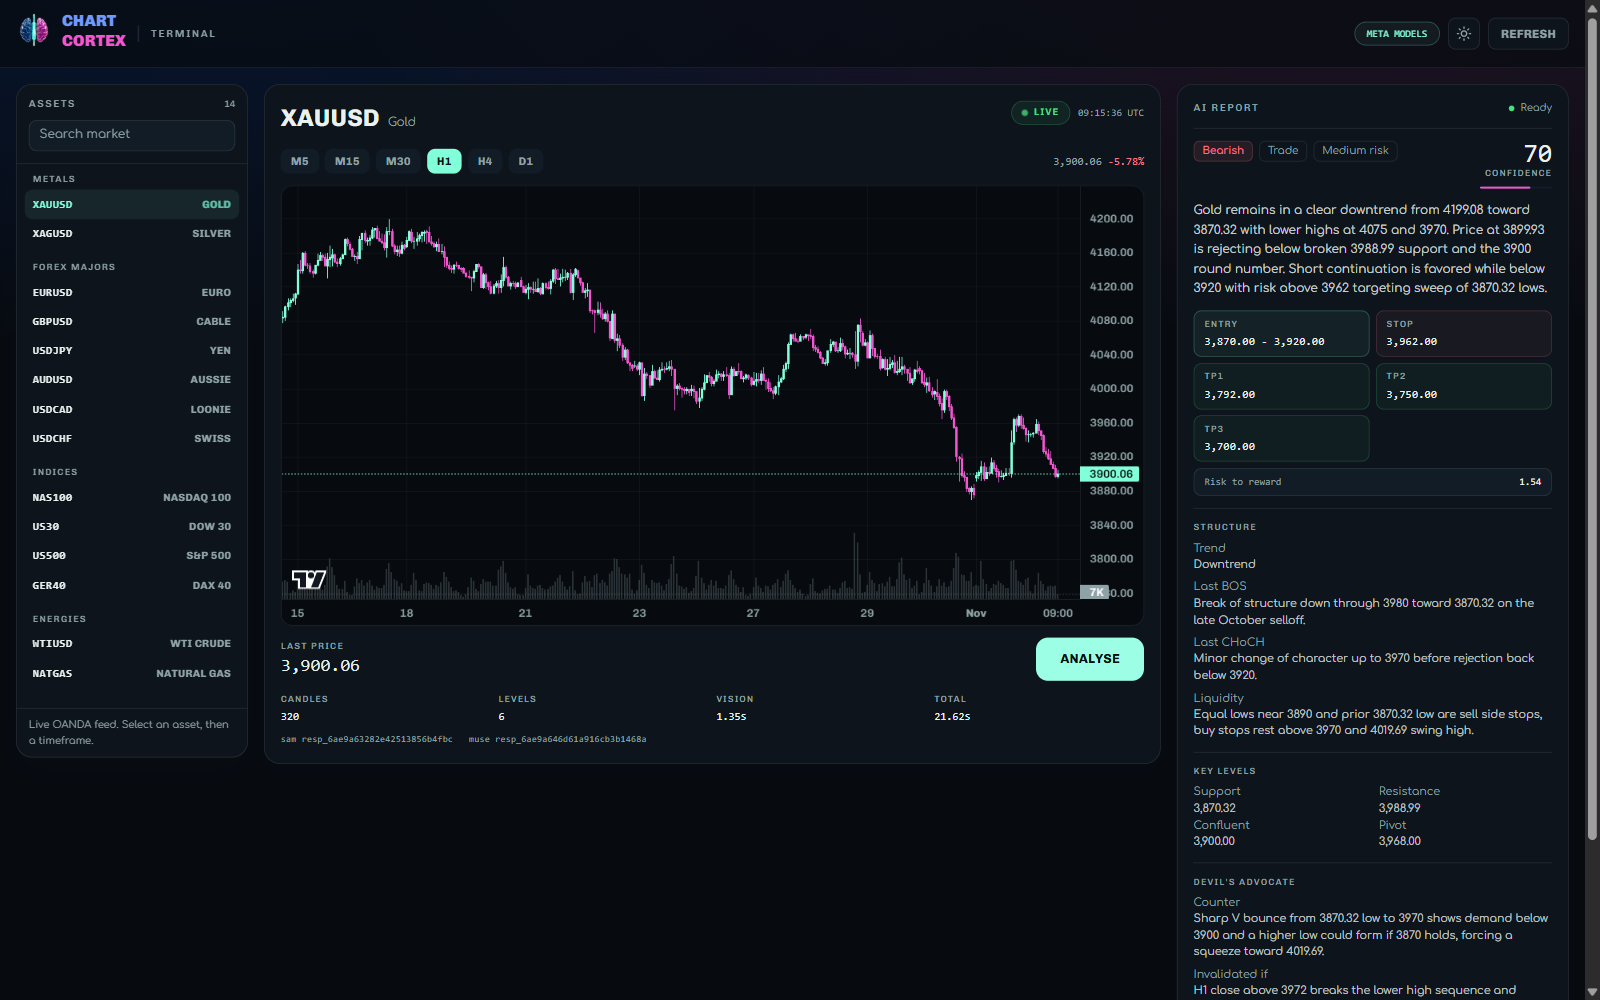
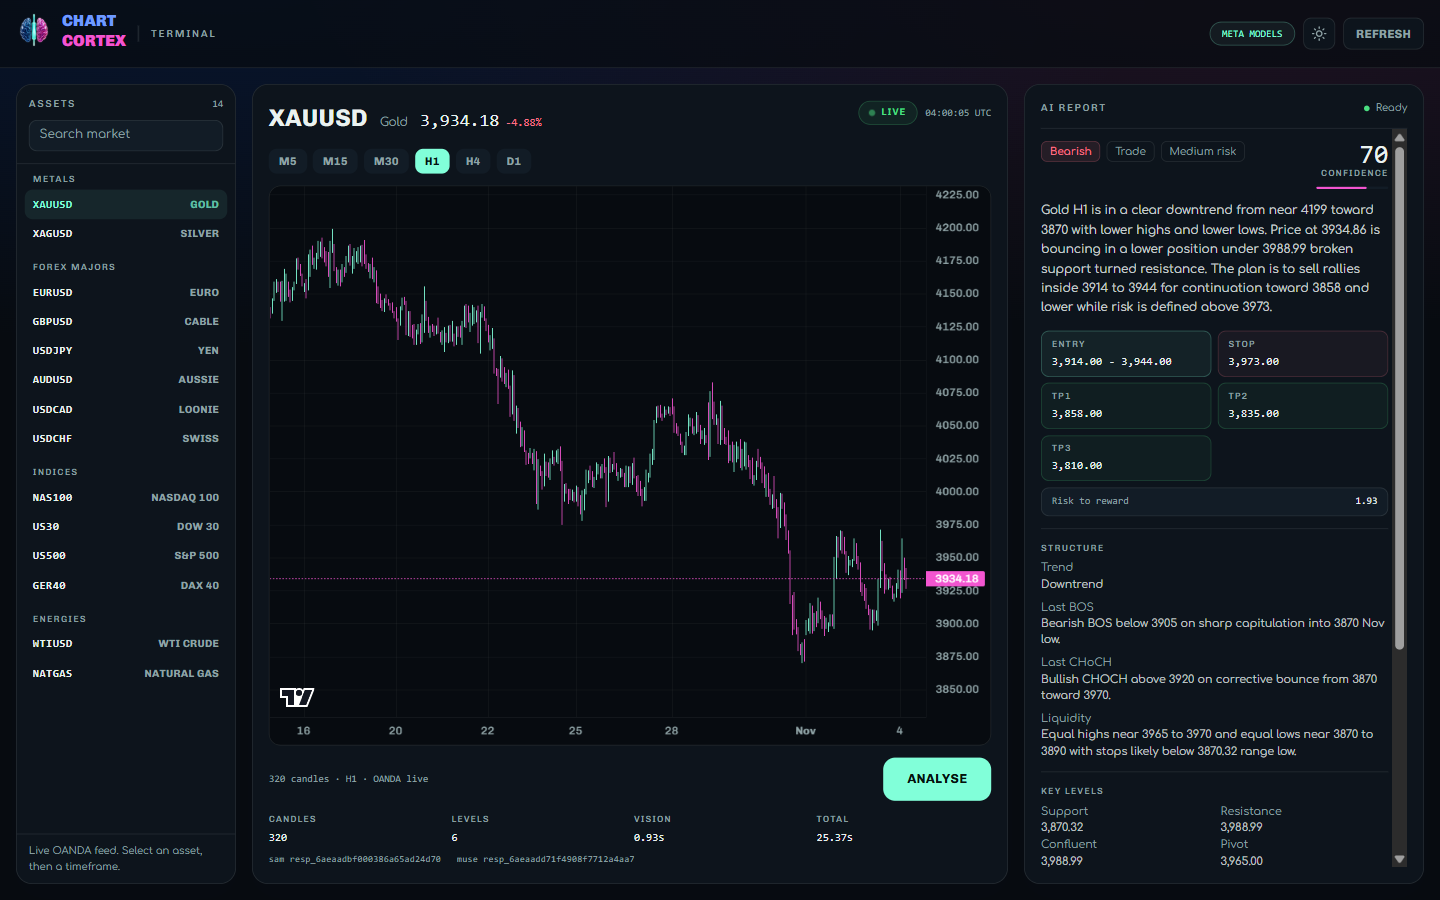
style: scanning state and energy feed in the hero

diff --git a/src/components/ScanWorkbench.tsx b/src/components/ScanWorkbench.tsx
@@ -426,7 +426,9 @@ export default function ScanWorkbench() {
             </div>
 
             <div className="min-h-0 flex-1 overflow-y-auto pr-1">
-            {!plan && (
+            {!plan && busy && <ScanningState elapsed={elapsed} />}
+
+            {!plan && !busy && (
               <div className="pt-8">
                 <div className="font-chivo text-[18px] font-bold leading-tight">
                   The report writes itself here.
@@ -556,6 +558,49 @@ export default function ScanWorkbench() {
           </div>
         </section>
       </main>
+    </div>
+  );
+}
+
+function ScanningState({ elapsed }: { elapsed: number }) {
+  const steps = [
+    "Segmenting the live chart",
+    "Measuring structure",
+    "Writing the plan",
+  ];
+  return (
+    <div className="pt-8">
+      <div className="font-chivo text-[18px] font-bold leading-tight">
+        Reading the live chart.
+      </div>
+      <p className="mt-2 text-[12px] leading-relaxed text-muted">
+        SAM 3.1 segments the chart, then Muse Spark writes the plan.
+      </p>
+      <div className="mt-6 space-y-3">
+        {steps.map((label, index) => (
+          <div key={label} className="flex items-center gap-3 text-[12px] text-muted">
+            <span
+              className="h-1.5 w-1.5 animate-pulse rounded-full bg-teal"
+              style={{ animationDelay: `${index * 0.35}s` }}
+            />
+            {label}
+          </div>
+        ))}
+      </div>
+      <div className="mt-6 space-y-2">
+        <div className="h-2 w-3/4 animate-pulse rounded bg-surface-2" />
+        <div className="h-2 w-full animate-pulse rounded bg-surface-2" />
+        <div className="h-2 w-2/3 animate-pulse rounded bg-surface-2" />
+      </div>
+      <div className="mt-4 grid grid-cols-2 gap-2">
+        {[0, 1, 2, 3].map((i) => (
+          <div
+            key={i}
+            className="h-12 animate-pulse rounded-lg border border-line bg-surface-2/40"
+          />
+        ))}
+      </div>
+      <div className="mt-4 font-mono text-[10px] text-muted">{elapsed.toFixed(1)}s</div>
     </div>
   );
 }

diff --git a/src/components/HeroStage.tsx b/src/components/HeroStage.tsx
@@ -83,25 +83,25 @@ const FEEDS: Feed[] = [
     ],
   },
   {
-    label: "Crypto",
-    symbol: "BTC/USD",
-    price: "96,840",
-    change: "-0.18%",
-    up: false,
+    label: "Energies",
+    symbol: "WTI/USD",
+    price: "78.42",
+    change: "+0.35%",
+    up: true,
     top: "74%",
     left: "12%",
     delay: "2.1s",
     path: "M280 480 C350 480 410 372 480 322",
     candles: [
-      { h: 66, up: false },
       { h: 52, up: true },
-      { h: 74, up: false },
+      { h: 66, up: false },
+      { h: 48, up: true },
+      { h: 72, up: true },
       { h: 58, up: false },
-      { h: 46, up: true },
-      { h: 62, up: false },
-      { h: 50, up: true },
-      { h: 40, up: false },
-      { h: 56, up: true },
+      { h: 64, up: true },
+      { h: 50, up: false },
+      { h: 76, up: true },
+      { h: 60, up: true },
     ],
   },
 ];
